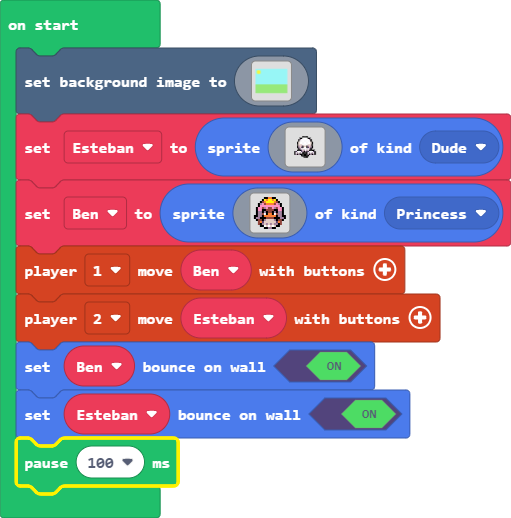
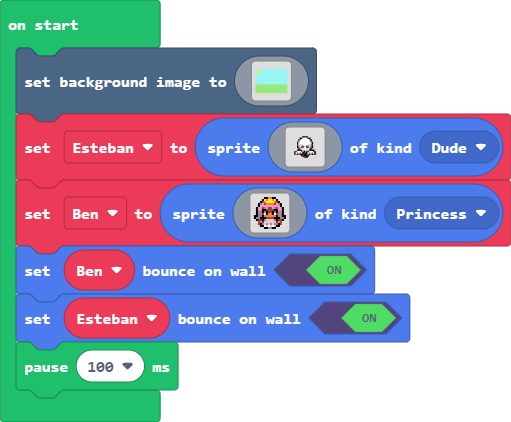
hjtrsjkygd

diff --git a/main.ts b/main.ts
@@ -169,8 +169,6 @@ let Ben = sprites.create(img`
     . . . f f 1 d 1 d 1 d f f . . . 
     . . . . . f f b b f f . . . . . 
     `, SpriteKind.Princess)
-controller.player1.moveSprite(Ben)
-controller.player2.moveSprite(Esteban)
 Ben.setBounceOnWall(true)
 Esteban.setBounceOnWall(true)
 pause(100)
